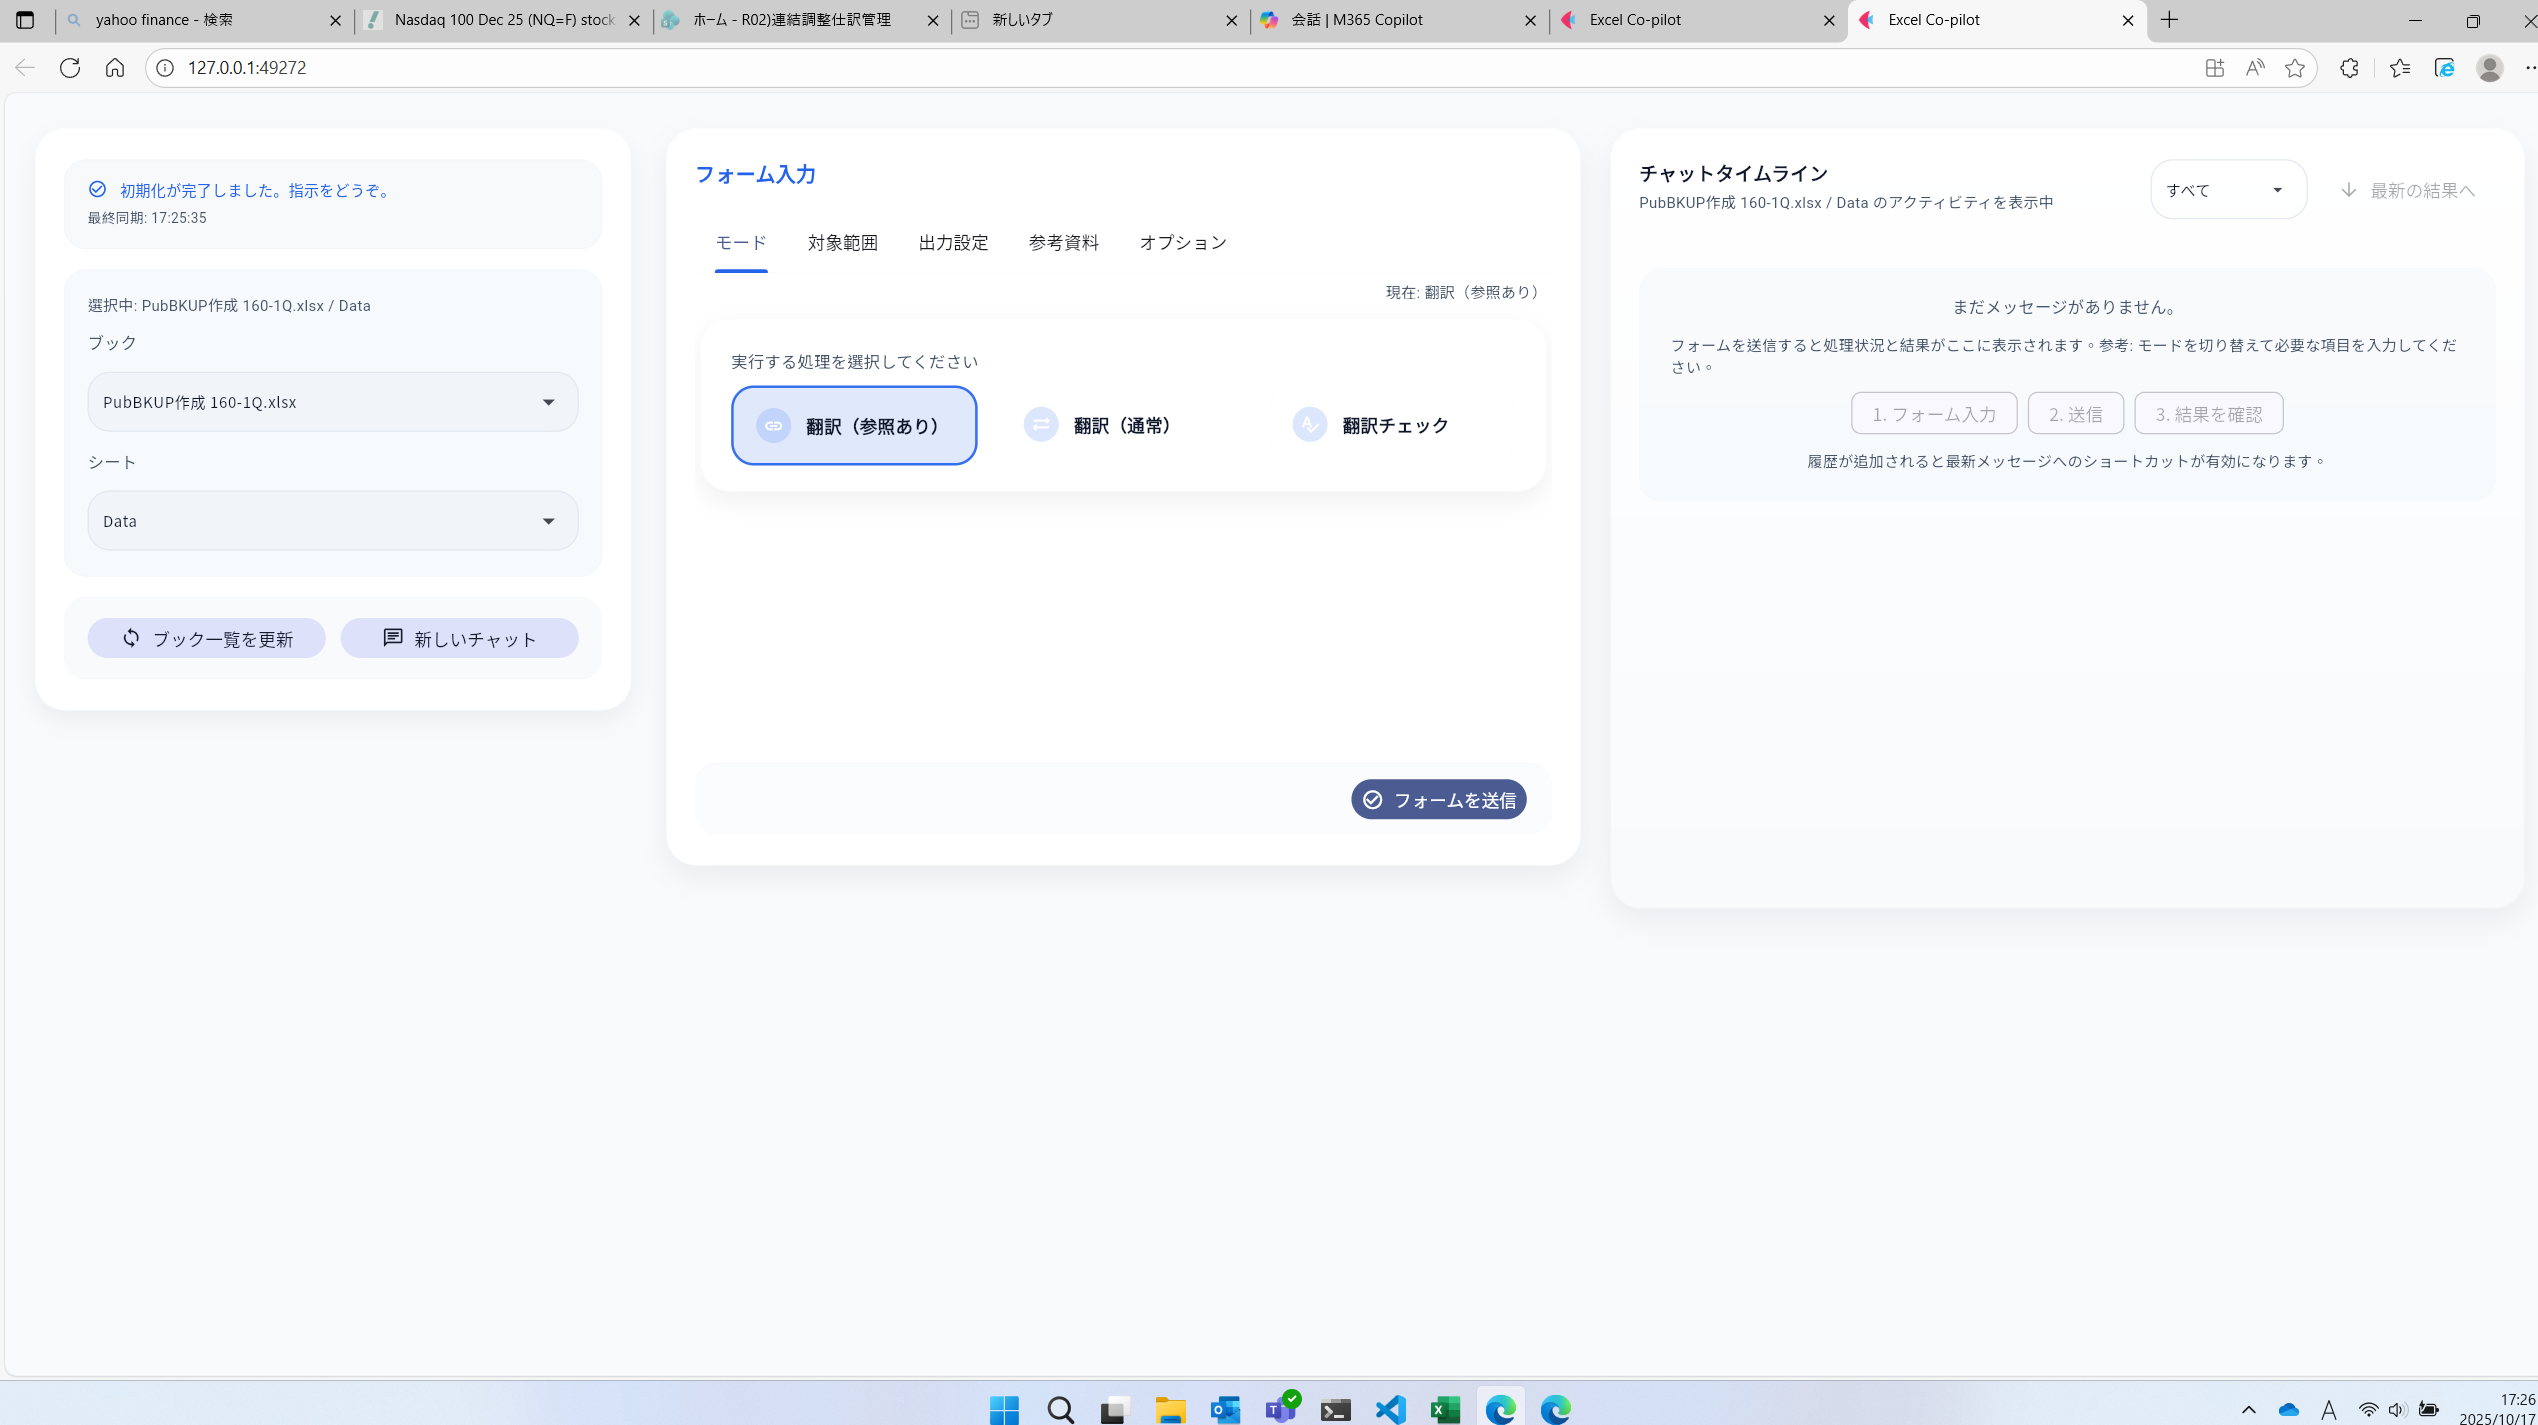
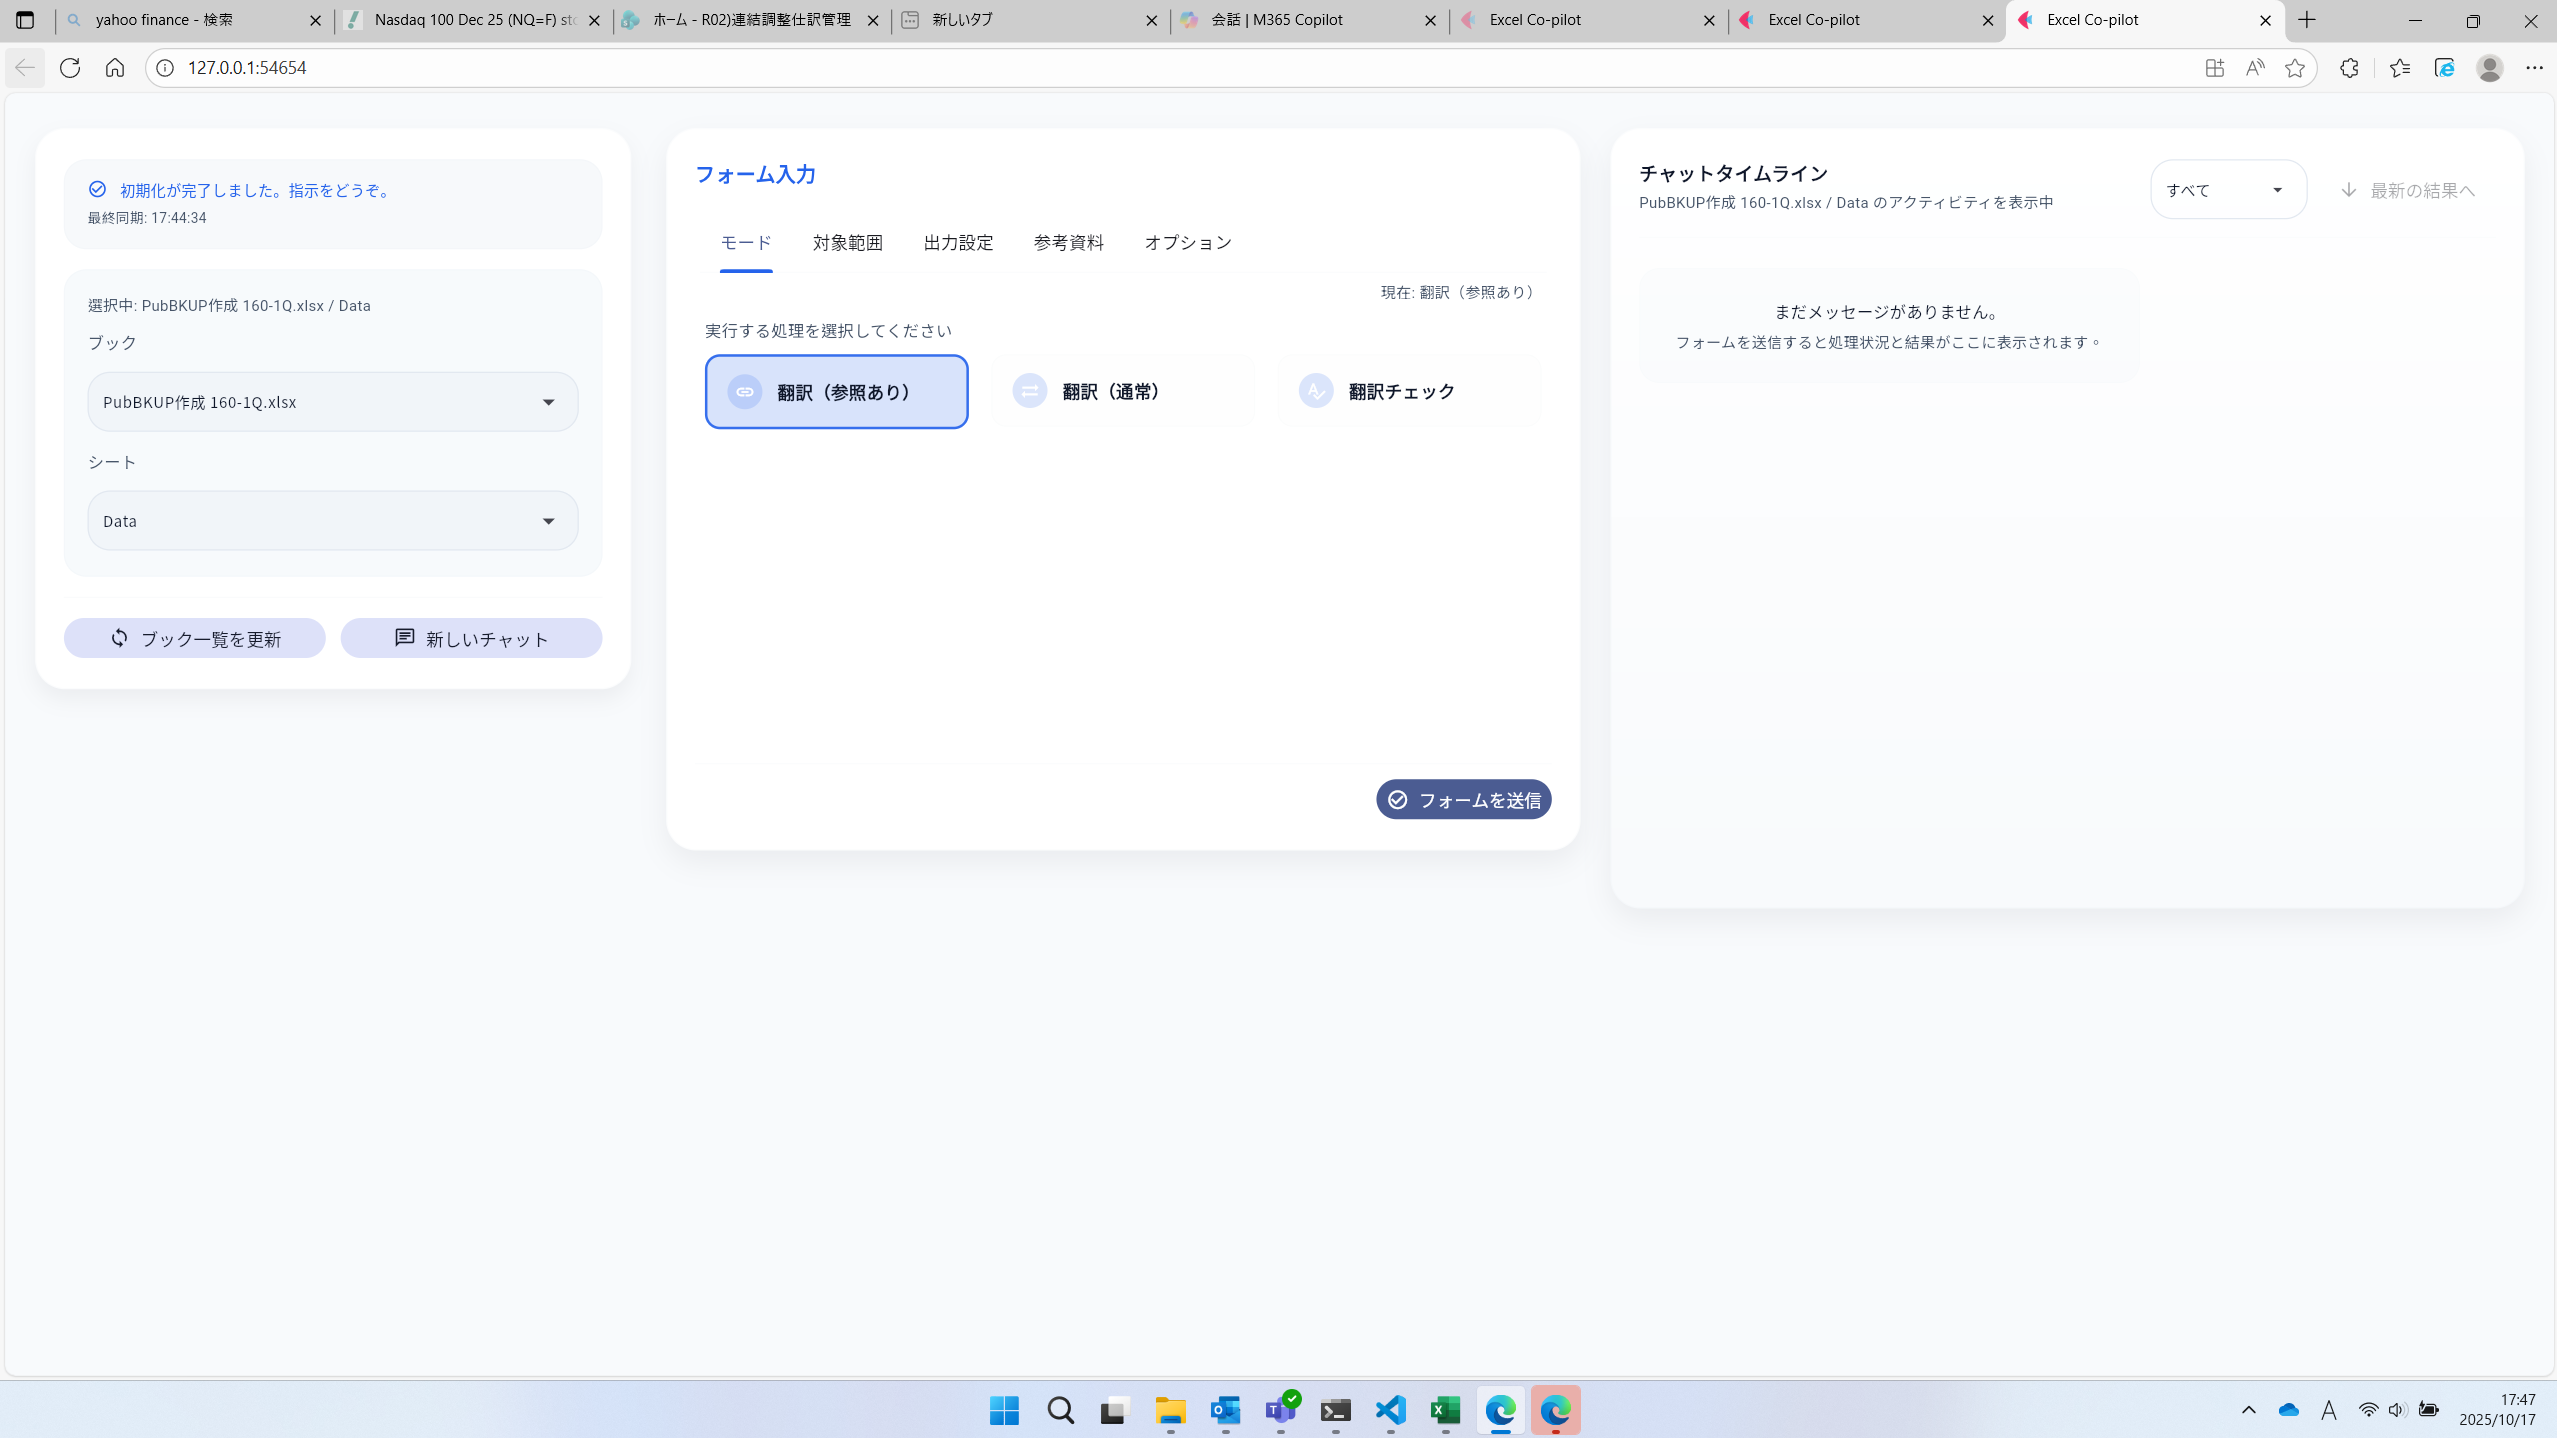
Align form/chat layout, remove target language field, and simplify chat status styling

diff --git a/desktop_app.py b/desktop_app.py
@@ -84,14 +84,6 @@ FORM_FIELD_DEFINITIONS: Dict[CopilotMode, List[Dict[str, Any]]] = {
             "placeholder": "例: B2:B20",
             "group": "output",
         },
-        {
-            "name": "target_language",
-            "label": "ターゲット言語",
-            "argument": "target_language",
-            "default": "English",
-            "placeholder": "例: English",
-            "group": "options",
-        },
     ],
     CopilotMode.TRANSLATION_WITH_REFERENCES: [
         {
@@ -109,14 +101,6 @@ FORM_FIELD_DEFINITIONS: Dict[CopilotMode, List[Dict[str, Any]]] = {
             "required": True,
             "placeholder": "例: B2:D20",
             "group": "output",
-        },
-        {
-            "name": "target_language",
-            "label": "ターゲット言語",
-            "argument": "target_language",
-            "default": "English",
-            "placeholder": "例: English",
-            "group": "options",
         },
         {
             "control": "section",
@@ -196,7 +180,7 @@ FORM_FIELD_DEFINITIONS: Dict[CopilotMode, List[Dict[str, Any]]] = {
             "label": "修正案列（任意）",
             "argument": "corrected_output_range",
             "placeholder": "例: G2:G20",
-            "group": "options",
+            "group": "output",
         },
     ],
 }
@@ -208,7 +192,7 @@ FORM_GROUP_LABELS: Dict[str, str] = {
     "options": "オプション",
 }
 
-FORM_GROUP_ORDER: List[str] = ["mode", "scope", "output", "references", "options"]
+FORM_GROUP_ORDER: List[str] = ["mode", "scope", "output", "references"]
 
 
 def _flatten_field_definitions(definitions: List[Dict[str, Any]]) -> List[Dict[str, Any]]:
@@ -665,23 +649,11 @@ class CopilotApp:
             on_click=self._scroll_chat_to_latest,
             disabled=True,
         )
-        chat_header_title = ft.Text(
-            "チャットタイムライン",
-            size=15,
-            weight=ft.FontWeight.W_600,
-            color=palette["on_surface"],
-            font_family=self._primary_font_family,
-        )
         self._chat_header_subtitle = ft.Text(
             "処理ログと結果が最新順に表示されます。",
             size=12,
             color=palette["on_surface_variant"],
             font_family=self._hint_font_family,
-        )
-        header_column = ft.Column(
-            [chat_header_title, self._chat_header_subtitle],
-            spacing=4,
-            tight=True,
         )
         header_actions = ft.Row(
             [self._chat_filter_dropdown, self._chat_scroll_button],
@@ -692,13 +664,20 @@ class CopilotApp:
         chat_header_section = ft.Column(
             controls=[
                 ft.Row(
-                    [header_column, header_actions],
+                    [
+                        ft.Container(
+                            content=self._chat_header_subtitle,
+                            expand=True,
+                            alignment=ft.alignment.center_left,
+                        ),
+                        header_actions,
+                    ],
                     alignment=ft.MainAxisAlignment.SPACE_BETWEEN,
-                    vertical_alignment=ft.CrossAxisAlignment.START,
+                    vertical_alignment=ft.CrossAxisAlignment.CENTER,
                 ),
                 ft.Container(height=1, bgcolor=ft.Colors.with_opacity(0.05, palette["outline"])),
             ],
-            spacing=14,
+            spacing=12,
         )
 
         self._chat_empty_state = ft.Container(
@@ -727,6 +706,7 @@ class CopilotApp:
             border=ft.border.all(1, ft.Colors.with_opacity(0.06, palette["outline_variant"])),
             bgcolor=ft.Colors.with_opacity(0.18, palette["surface_variant"]),
             visible=True,
+            alignment=ft.alignment.center,
         )
 
         self.chat_list = ft.ListView(
@@ -761,39 +741,21 @@ class CopilotApp:
 
         self._form_panel = self._build_form_panel()
 
-        form_and_chat_row = ft.ResponsiveRow(
-            controls=[
-                ft.Container(
-                    content=self._form_panel,
-                    col={"xs": 12, "md": 12, "lg": 6},
-                    expand=True,
-                ),
-                ft.Container(
-                    content=self._chat_panel,
-                    col={"xs": 12, "md": 12, "lg": 6},
-                    expand=True,
-                ),
-            ],
-            spacing=24,
-            run_spacing=24,
-        )
-
-        self._main_column = ft.Column(
-            controls=[form_and_chat_row],
-            expand=True,
-            spacing=24,
-        )
-
         self._layout = ft.ResponsiveRow(
             controls=[
                 ft.Container(
                     content=ft.Column([self._context_panel], spacing=16),
-                    col={"xs": 12, "sm": 12, "md": 4, "lg": 3},
+                    col={"xs": 12, "sm": 12, "md": 4, "lg": 4},
                     expand=True,
                 ),
                 ft.Container(
-                    content=self._main_column,
-                    col={"xs": 12, "sm": 12, "md": 8, "lg": 9},
+                    content=self._form_panel,
+                    col={"xs": 12, "sm": 12, "md": 4, "lg": 4},
+                    expand=True,
+                ),
+                ft.Container(
+                    content=self._chat_panel,
+                    col={"xs": 12, "sm": 12, "md": 4, "lg": 4},
                     expand=True,
                 ),
             ],
@@ -909,16 +871,8 @@ class CopilotApp:
             tight=True,
         )
 
-        header = ft.Text(
-            "フォーム入力",
-            size=16,
-            weight=ft.FontWeight.W_600,
-            color=palette["primary"],
-            font_family=self._primary_font_family,
-        )
-
         content = ft.Column(
-            controls=[header, self._form_body_column, self.form_error_text, action_bar],
+            controls=[self._form_body_column, self.form_error_text, action_bar],
             spacing=20,
             tight=True,
         )
@@ -938,6 +892,7 @@ class CopilotApp:
             clip_behavior=ft.ClipBehavior.NONE,
         )
 
+        self._mode_panel_container = panel
         self._update_all_group_summaries()
         return panel
 
@@ -1196,8 +1151,6 @@ class CopilotApp:
             return "未入力"
         if group_key == "output" and len(values) > 1:
             return f"{values[0]} ほか{len(values) - 1} 件"
-        if group_key == "options" and len(values) > 1:
-            return f"{values[0]} 他 {len(values) - 1} 項目"
         return values[0]
 
     def _split_list_values(self, raw_text: str) -> List[str]:
@@ -1432,7 +1385,11 @@ class CopilotApp:
             if available_height > 0:
                 composer_est = (panel_padding.top + panel_padding.bottom) + 120
                 mode_est = (mode_padding.top + mode_padding.bottom) + 110
-                spacing_total = max(0, main_column_spacing) * 2
+                if self._main_column:
+                    spacing_total = max(0, main_column_spacing) * 2
+                else:
+                    layout_spacing = getattr(self._layout, "spacing", 0) if self._layout else 0
+                    spacing_total = max(0, layout_spacing)
                 calculated = available_height - composer_est - mode_est - spacing_total
                 if layout_key == "compact":
                     min_chat_height = 240

diff --git a/excel_copilot/ui/chat.py b/excel_copilot/ui/chat.py
@@ -115,21 +115,34 @@ class ChatMessage(ft.ResponsiveRow):
             controls: List[ft.Control] = []
             header_controls: List[ft.Control] = []
             if mode_label:
-                header_controls.append(ft.Container(ft.Text(mode_label, size=11, weight=ft.FontWeight.W_500, color=palette["primary"]), padding=ft.Padding(10, 4, 10, 4), bgcolor=ft.Colors.with_opacity(0.12, palette["primary"]), border_radius=12))
+                header_controls.append(
+                    ft.Text(
+                        mode_label,
+                        size=11,
+                        weight=ft.FontWeight.W_500,
+                        color=palette["primary"],
+                    )
+                )
             if display_time:
                 header_controls.append(ft.Text(display_time, size=11, color=palette["on_surface_variant"]))
             if header_controls:
                 alignment = ft.MainAxisAlignment.SPACE_BETWEEN if len(header_controls) == 2 else (ft.MainAxisAlignment.START if mode_label else ft.MainAxisAlignment.END)
-                controls.append(ft.Row(header_controls, alignment=alignment, vertical_alignment=ft.CrossAxisAlignment.CENTER))
+                controls.append(
+                    ft.Row(
+                        header_controls,
+                        alignment=alignment,
+                        vertical_alignment=ft.CrossAxisAlignment.CENTER,
+                    )
+                )
             text_control = ft.Text(msg_content, **config.get("text_style", {}))
             controls.append(text_control)
             self.controls = [
                 ft.Column(
                     controls,
                     col=12,
-                    alignment=ft.MainAxisAlignment.CENTER,
-                    horizontal_alignment=ft.CrossAxisAlignment.CENTER,
-                    spacing=6,
+                    alignment=ft.MainAxisAlignment.START,
+                    horizontal_alignment=ft.CrossAxisAlignment.START,
+                    spacing=4,
                 )
             ]
             return
